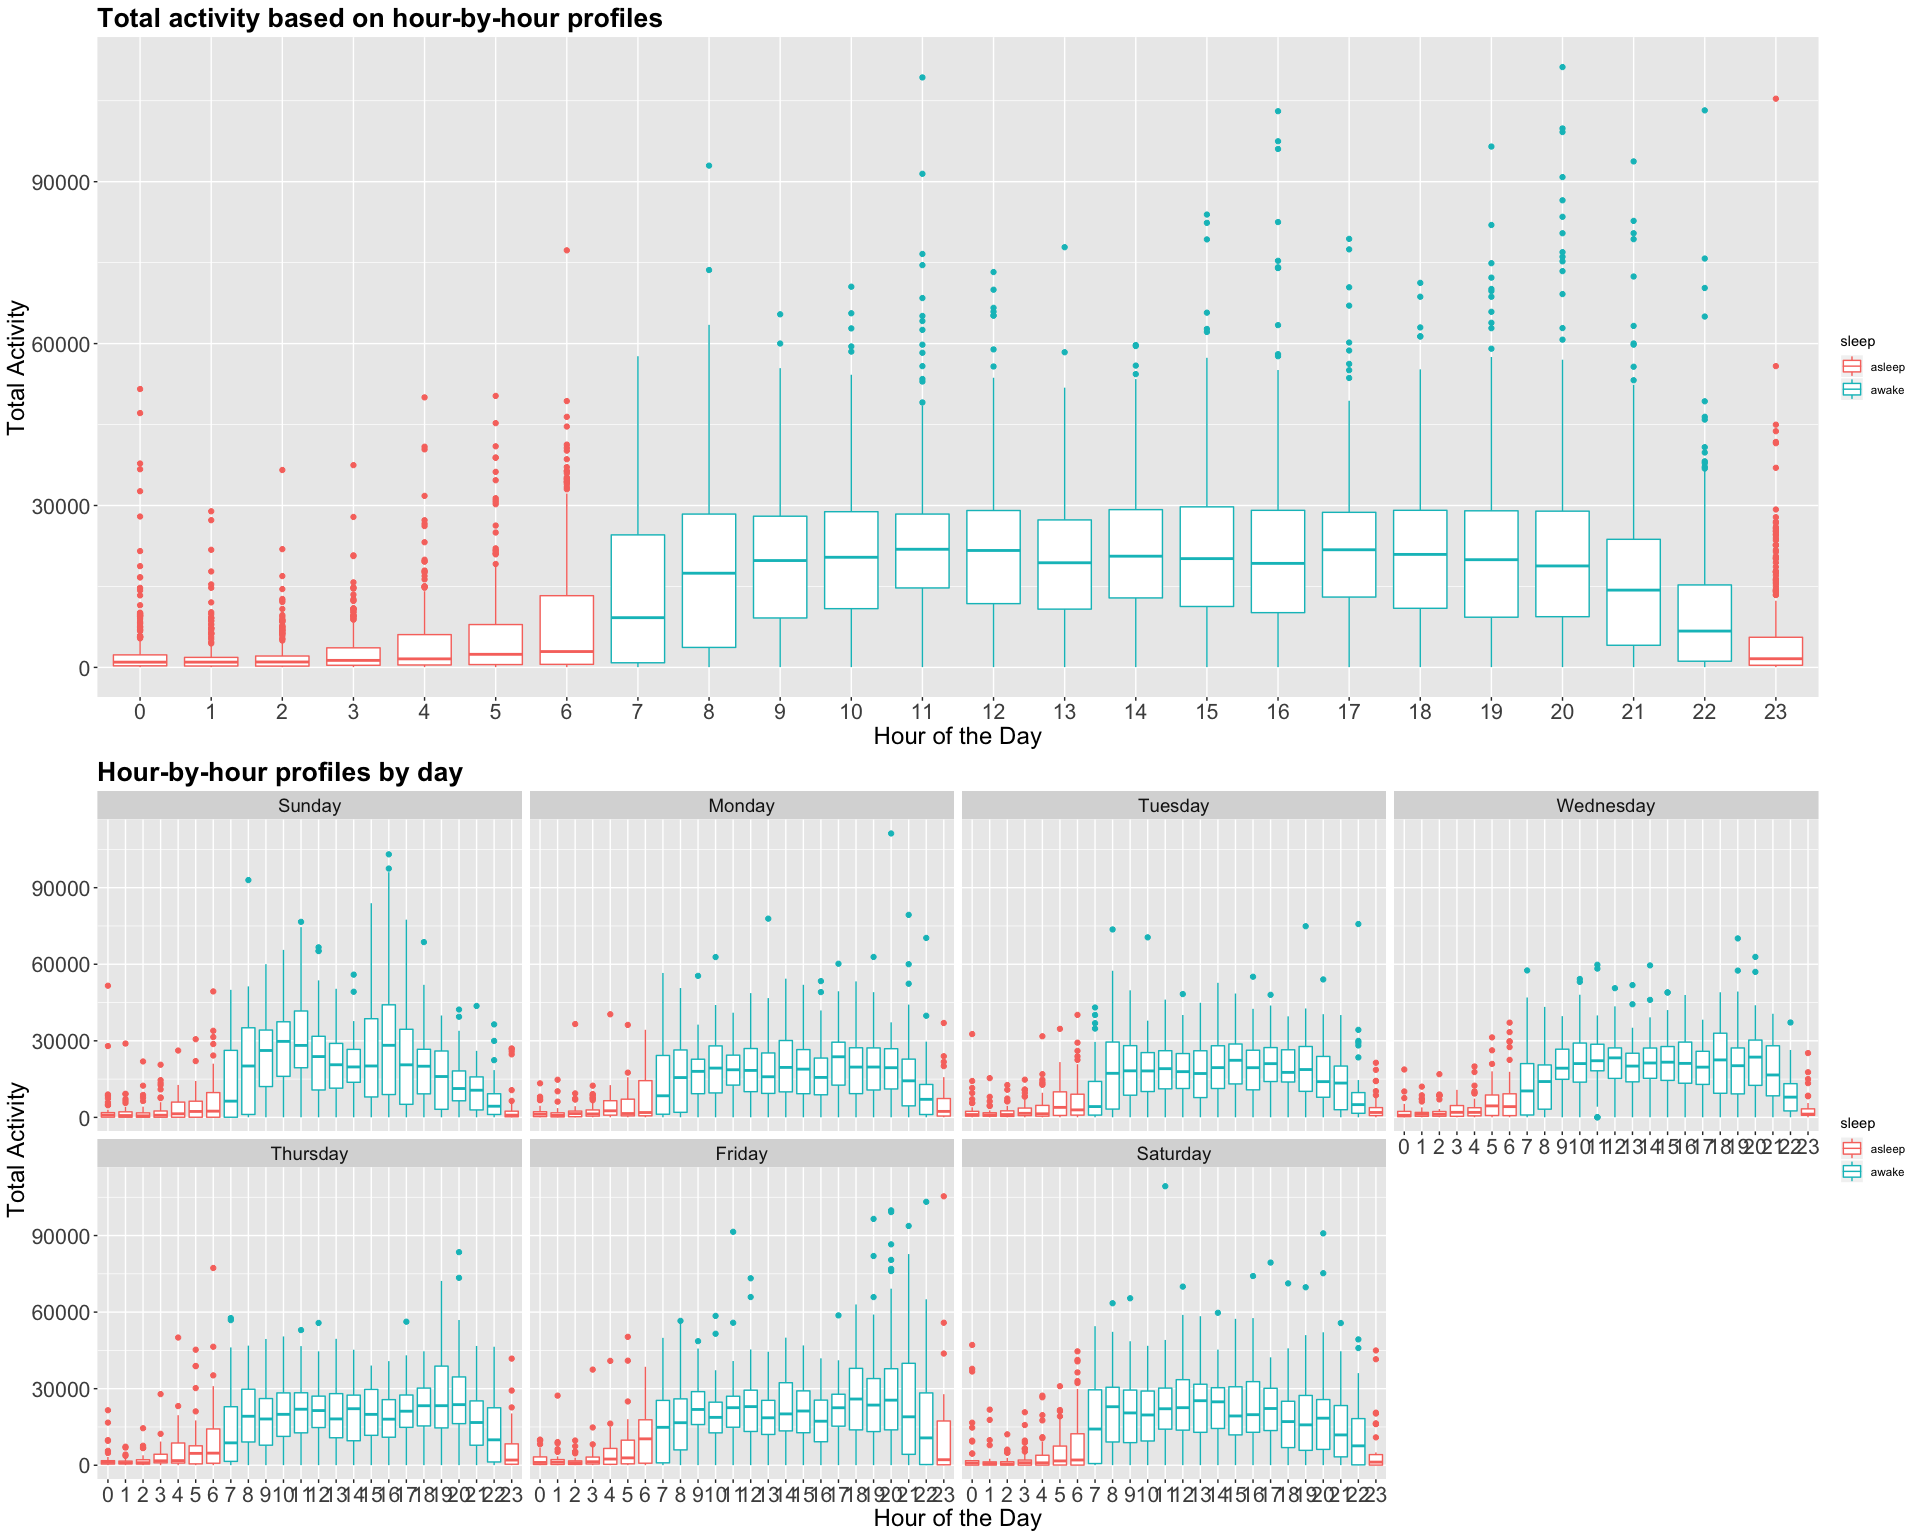
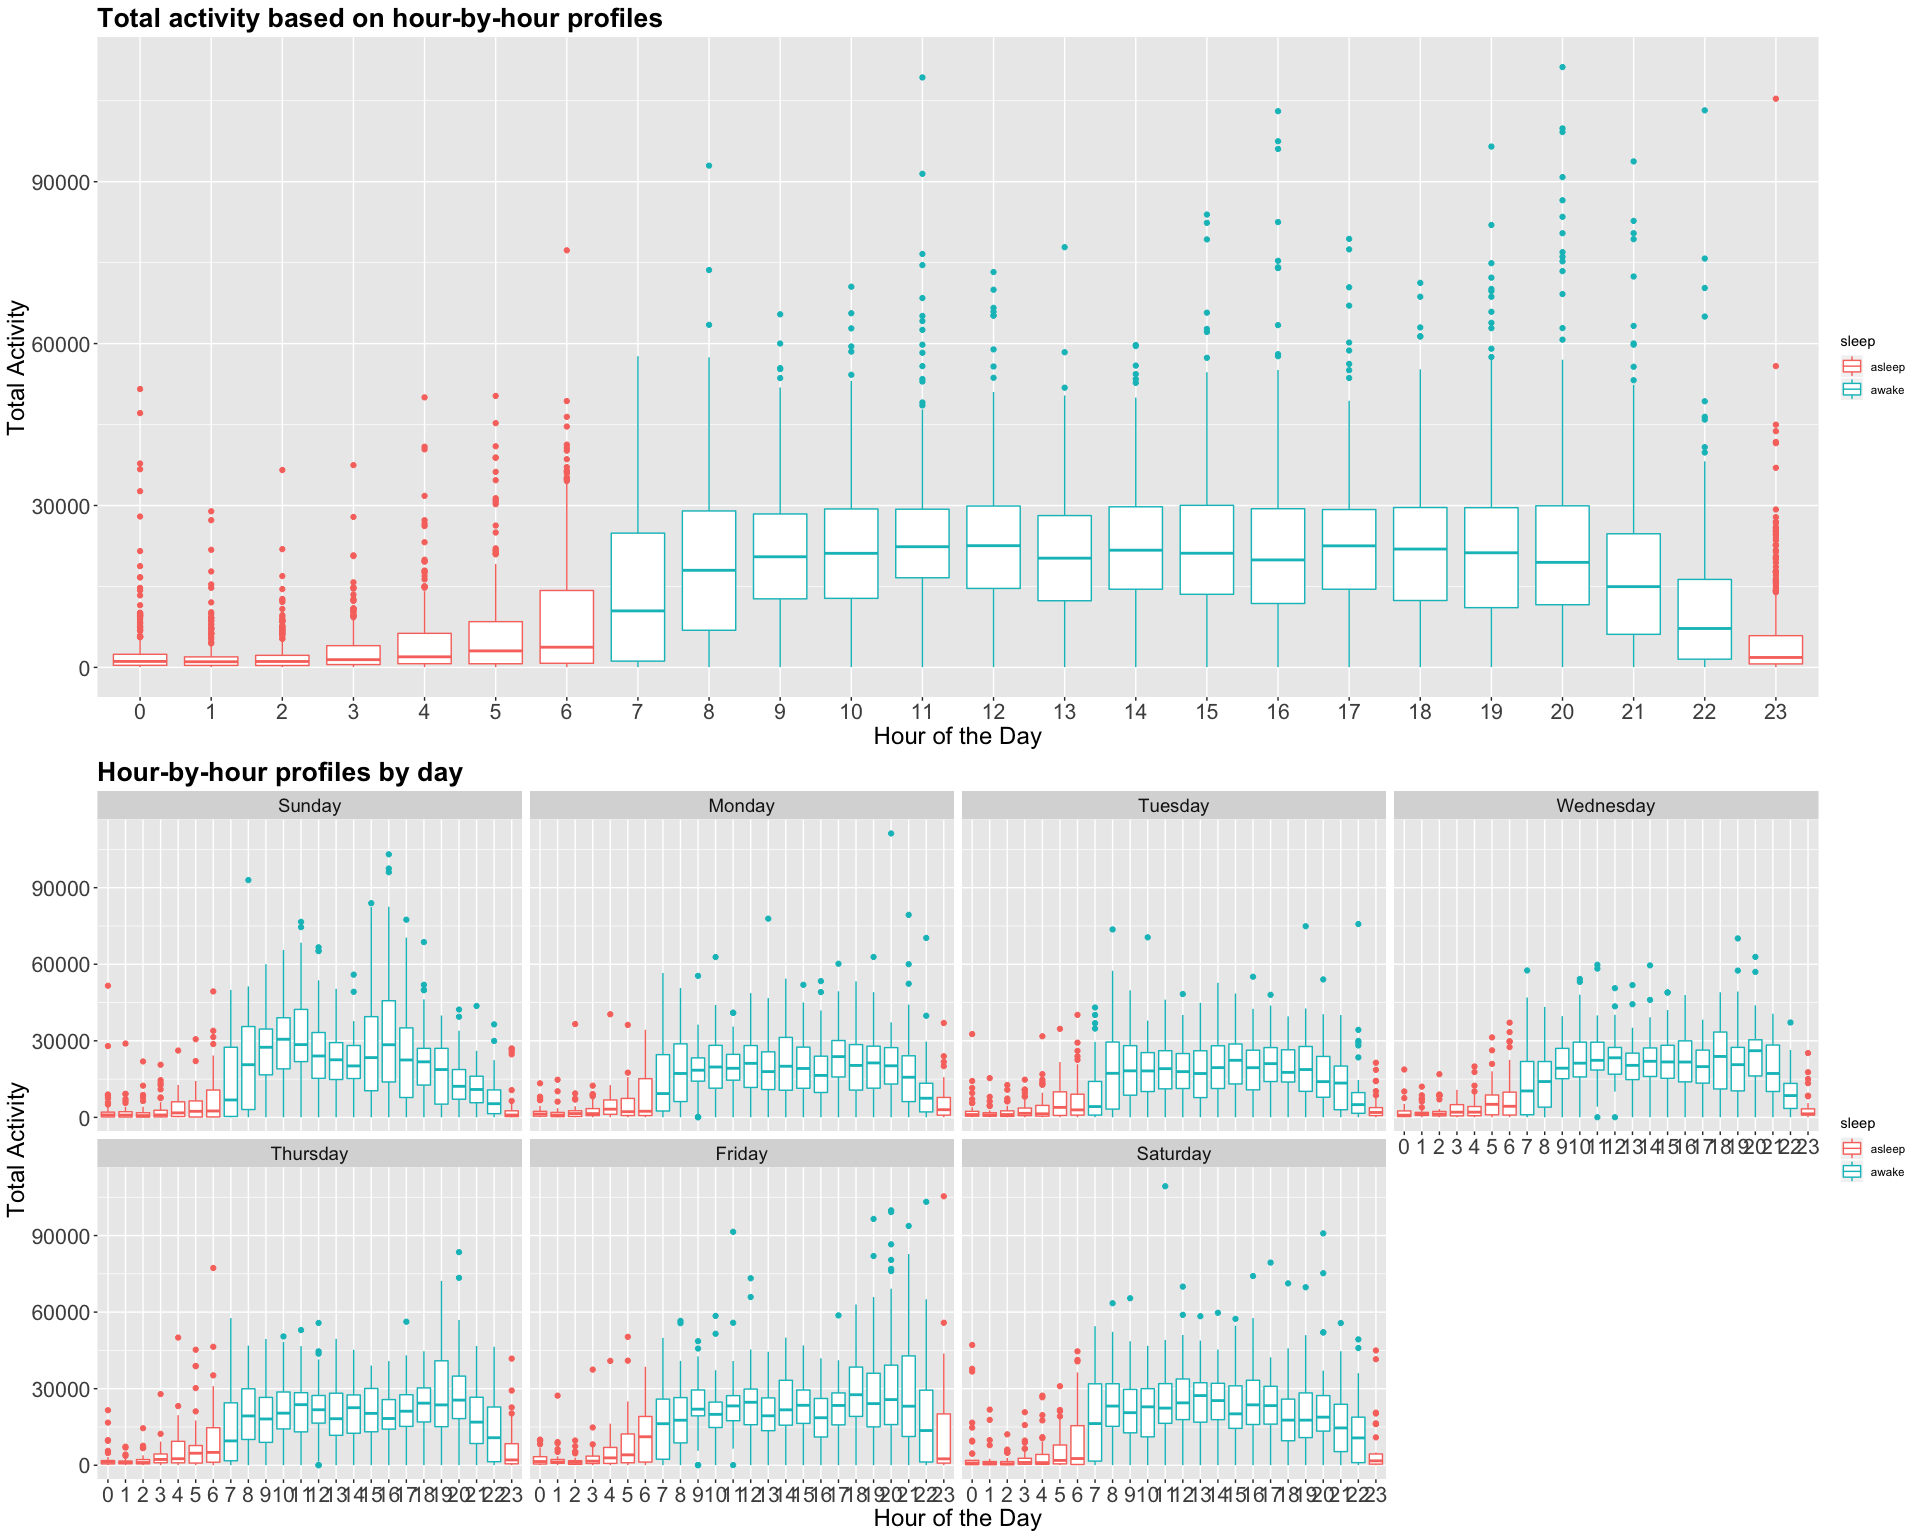
filter out unreasonable days for the 24 hour profiles

diff --git a/p8105_mtp_zdz2101.md b/p8105_mtp_zdz2101.md
@@ -30,8 +30,8 @@ wordcountaddin::text_stats("p8105_mtp_zdz2101.Rmd")
 
 | Method          | koRpus      | stringi       |
 |:----------------|:------------|:--------------|
-| Word count      | 499         | 472           |
-| Character count | 2904        | 2903          |
+| Word count      | 498         | 471           |
+| Character count | 2900        | 2899          |
 | Sentence count  | 29          | Not available |
 | Reading time    | 2.5 minutes | 2.4 minutes   |
 
@@ -54,16 +54,16 @@ sample_n(accelero_data, 10) #show day_id works
     ## # A tibble: 10 x 7
     ##    day_id  week day        hour activity      minute activity_value
     ##     <dbl> <int> <fct>     <dbl> <chr>          <dbl>          <dbl>
-    ##  1    208    30 Thursday     23 activity.1411   1411            1  
-    ##  2    200    29 Wednesday    16 activity.977     977          305. 
-    ##  3    200    29 Wednesday     6 activity.411     411          276. 
-    ##  4    166    24 Thursday      0 activity.15       15           32. 
-    ##  5    259    37 Saturday      0 activity.6         6          458. 
-    ##  6    146    21 Friday        8 activity.503     503           22. 
-    ##  7     93    14 Monday       13 activity.829     829          251. 
-    ##  8     25     4 Wednesday    17 activity.1059   1059            1  
-    ##  9    170    25 Monday       21 activity.1314   1314           11.0
-    ## 10    279    40 Friday       13 activity.791     791           32.
+    ##  1    172    25 Wednesday    10 activity.615     615           150.
+    ##  2    124    18 Thursday     17 activity.1032   1032           442.
+    ##  3    320    46 Thursday     17 activity.1039   1039           675.
+    ##  4    208    30 Thursday     12 activity.738     738             1 
+    ##  5     51     8 Monday       11 activity.680     680           458.
+    ##  6    227    33 Tuesday      19 activity.1141   1141            74.
+    ##  7    227    33 Tuesday       8 activity.485     485             1 
+    ##  8    130    19 Wednesday    20 activity.1211   1211            85.
+    ##  9    131    19 Thursday     18 activity.1092   1092           442.
+    ## 10     44     7 Monday       13 activity.836     836             1
 
 ``` r
 #day_id is just a linear transform of week and day, sunday week 1 is day 1, sunday week 2 is day 8, etc.
@@ -95,6 +95,8 @@ day_aggregate_df <- accelero_data %>%
             max = quantile(activity_value, 1)
             )
   
+unreasonable_days <- day_aggregate_df$day_id[which(day_aggregate_df$total_activity == 1440)]
+
 day_aggregate_plot <- day_aggregate_df %>%
   filter(total_activity != 1440) %>% #---------remove days w/ invalid readings
   ggplot(., aes(x = day_id, y = total_activity)) + 
@@ -132,13 +134,14 @@ day_aggregate_plot + by_day_plot
 
 Plotting total activity by day, as shown on the left, we see an upward trend in activity throughout the course of the study. It dips around day 150, but the trend overall throughout 47 weeks is still positive. Based on the figure on the right, the patient's activity still increases over time regardless of what day it is suggesting weekday does not play a role in our findings. It could be argued the patient's activity on Thursdays looks stagnant.
 
-I discovered 18 days: day\_id's 7, 8, 15, 18, 19, 20, 23, 25, 26, 27, 55, 78, 83, 84, 86, 133, 140, 219 where total activity is "1440" meaning there was no activity over the entirety of those days. I suspect the patient was not wearing the accelerometer or accelerometer malfunction, so I excluded these days from the figures.
+I discovered 18 days: day\_id's 7, 8, 15, 18, 19, 20, 23, 25, 26, 27, 55, 78, 83, 84, 86, 133, 140, 219 where total activity is "1440" meaning there was no activity over the entirety of those days. I suspect the patient was not wearing the accelerometer or accelerometer malfunction, so I excluded these days from figures.
 
 Aggregate by hour/24 hour profiles
 ==================================
 
 ``` r
 hour_aggregate <- accelero_data %>%
+  filter(!day_id %in% unreasonable_days) %>%
   group_by(day_id, week, day, hour) %>%
   summarize(hourly_activity_total = sum(activity_value),
             hourly_activity_mean = mean(activity_value)) %>%
